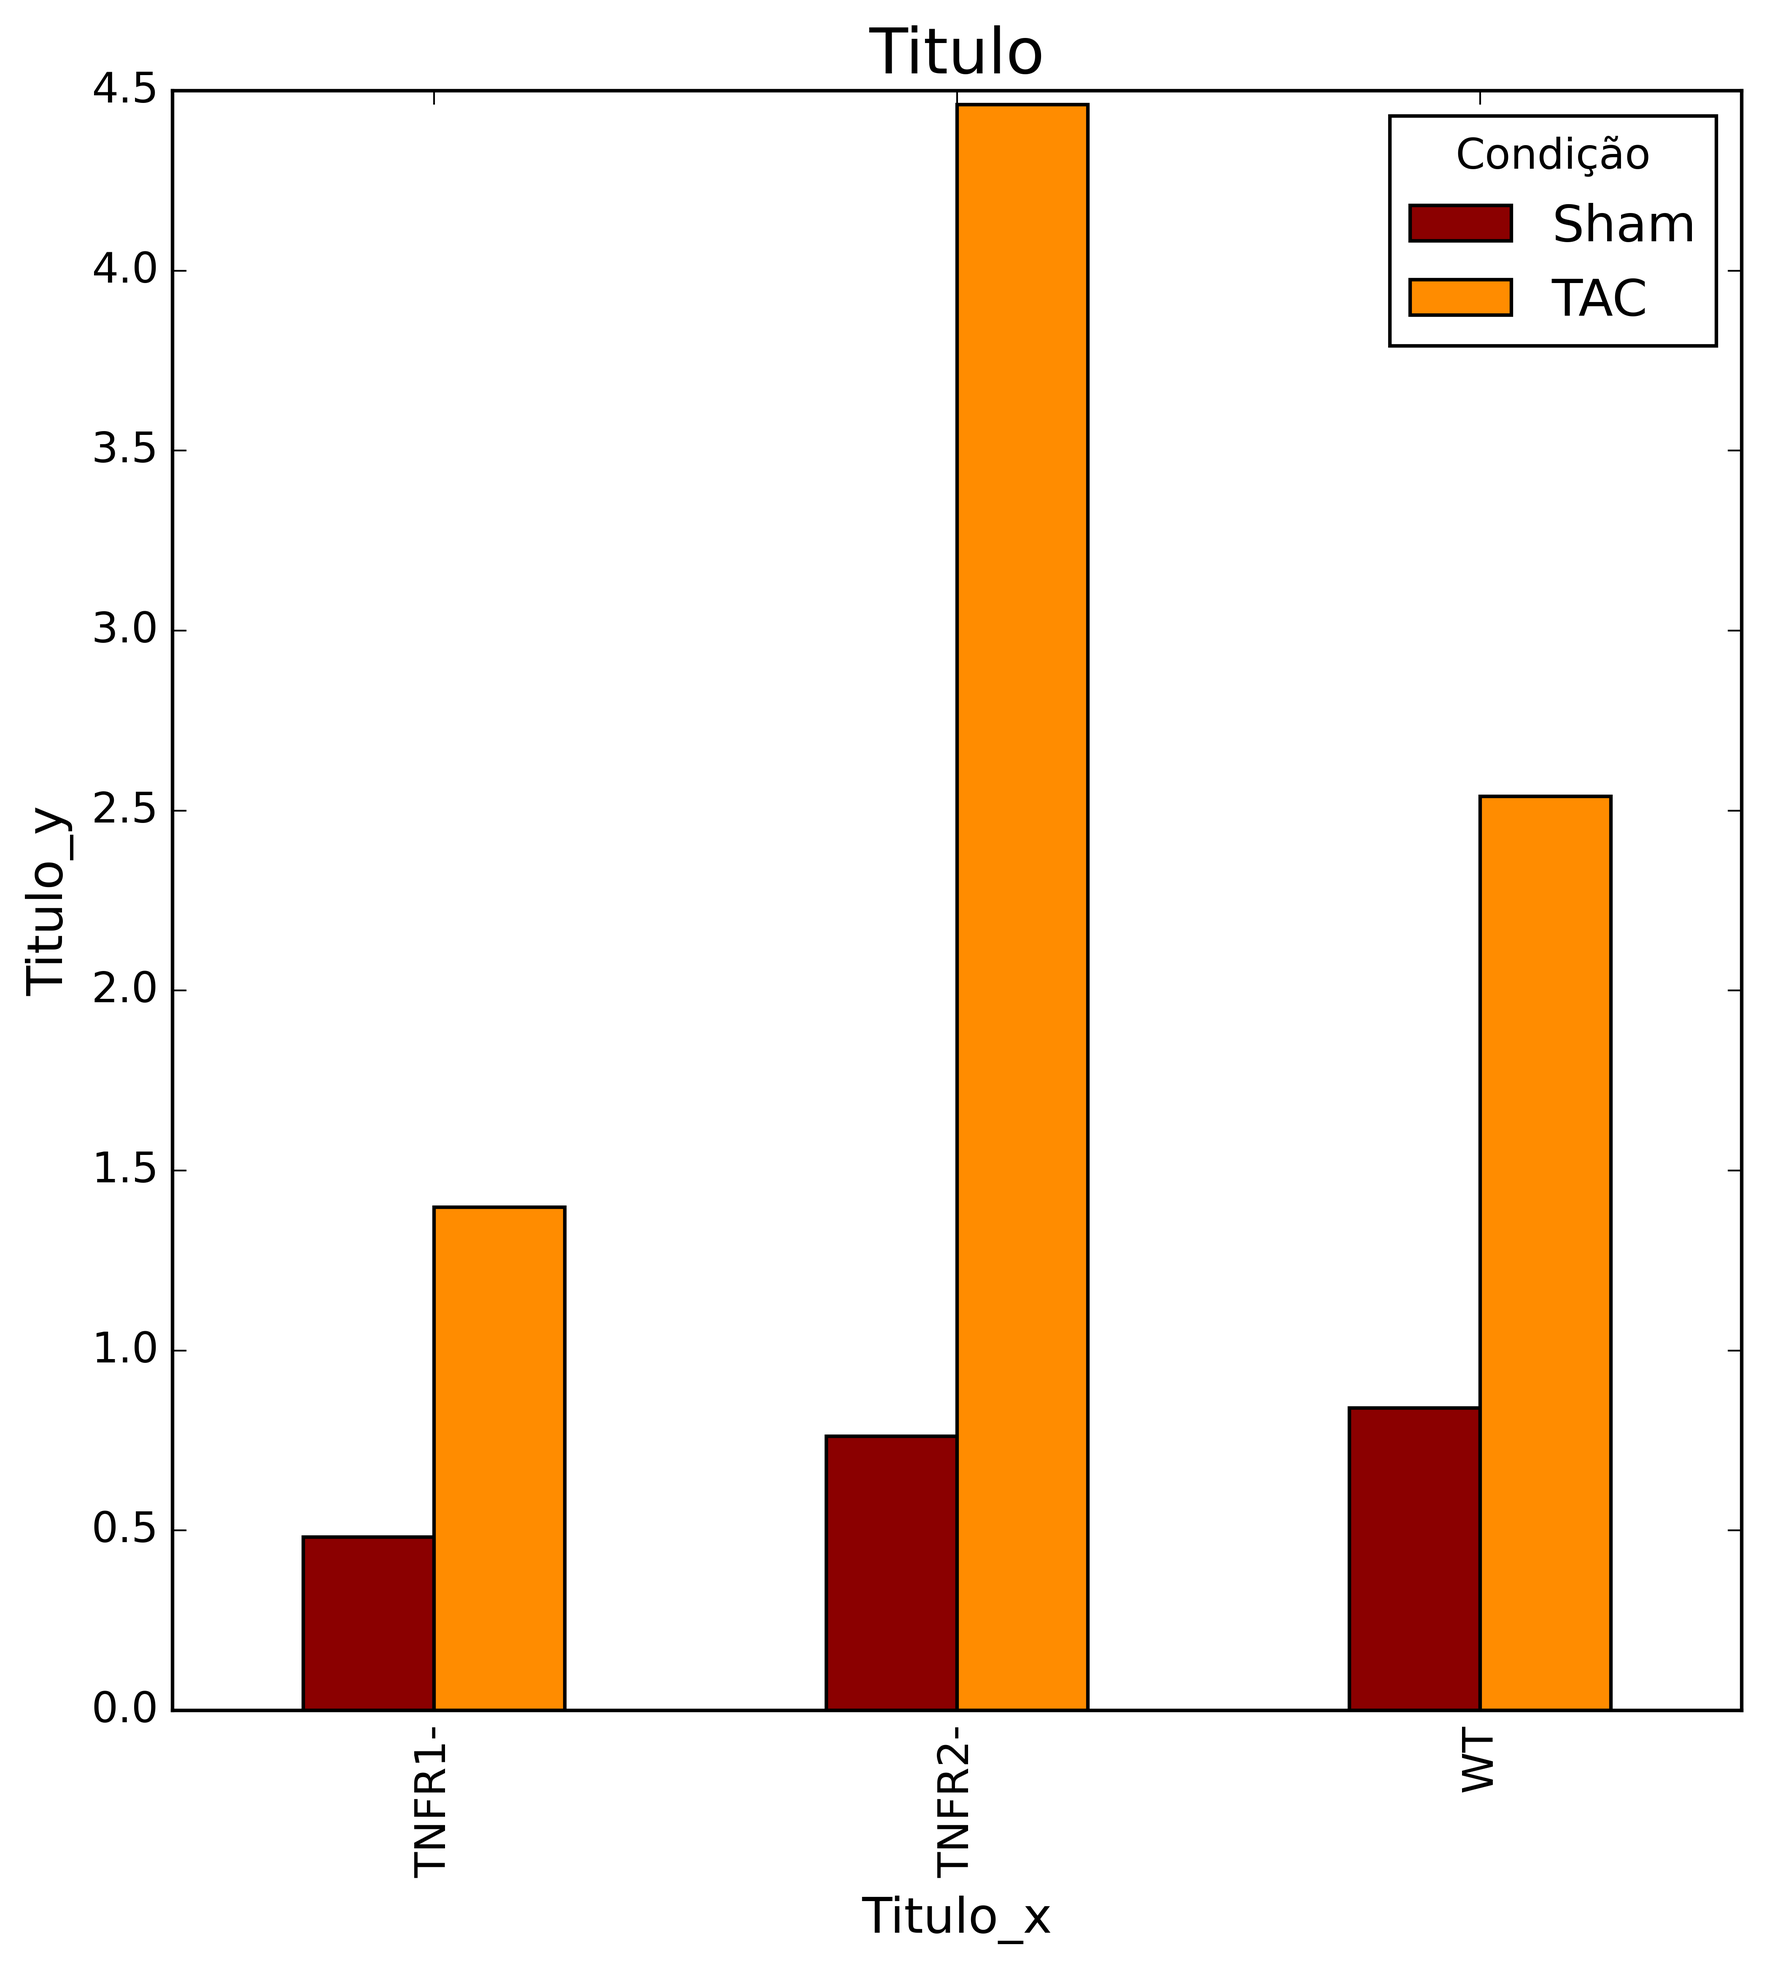
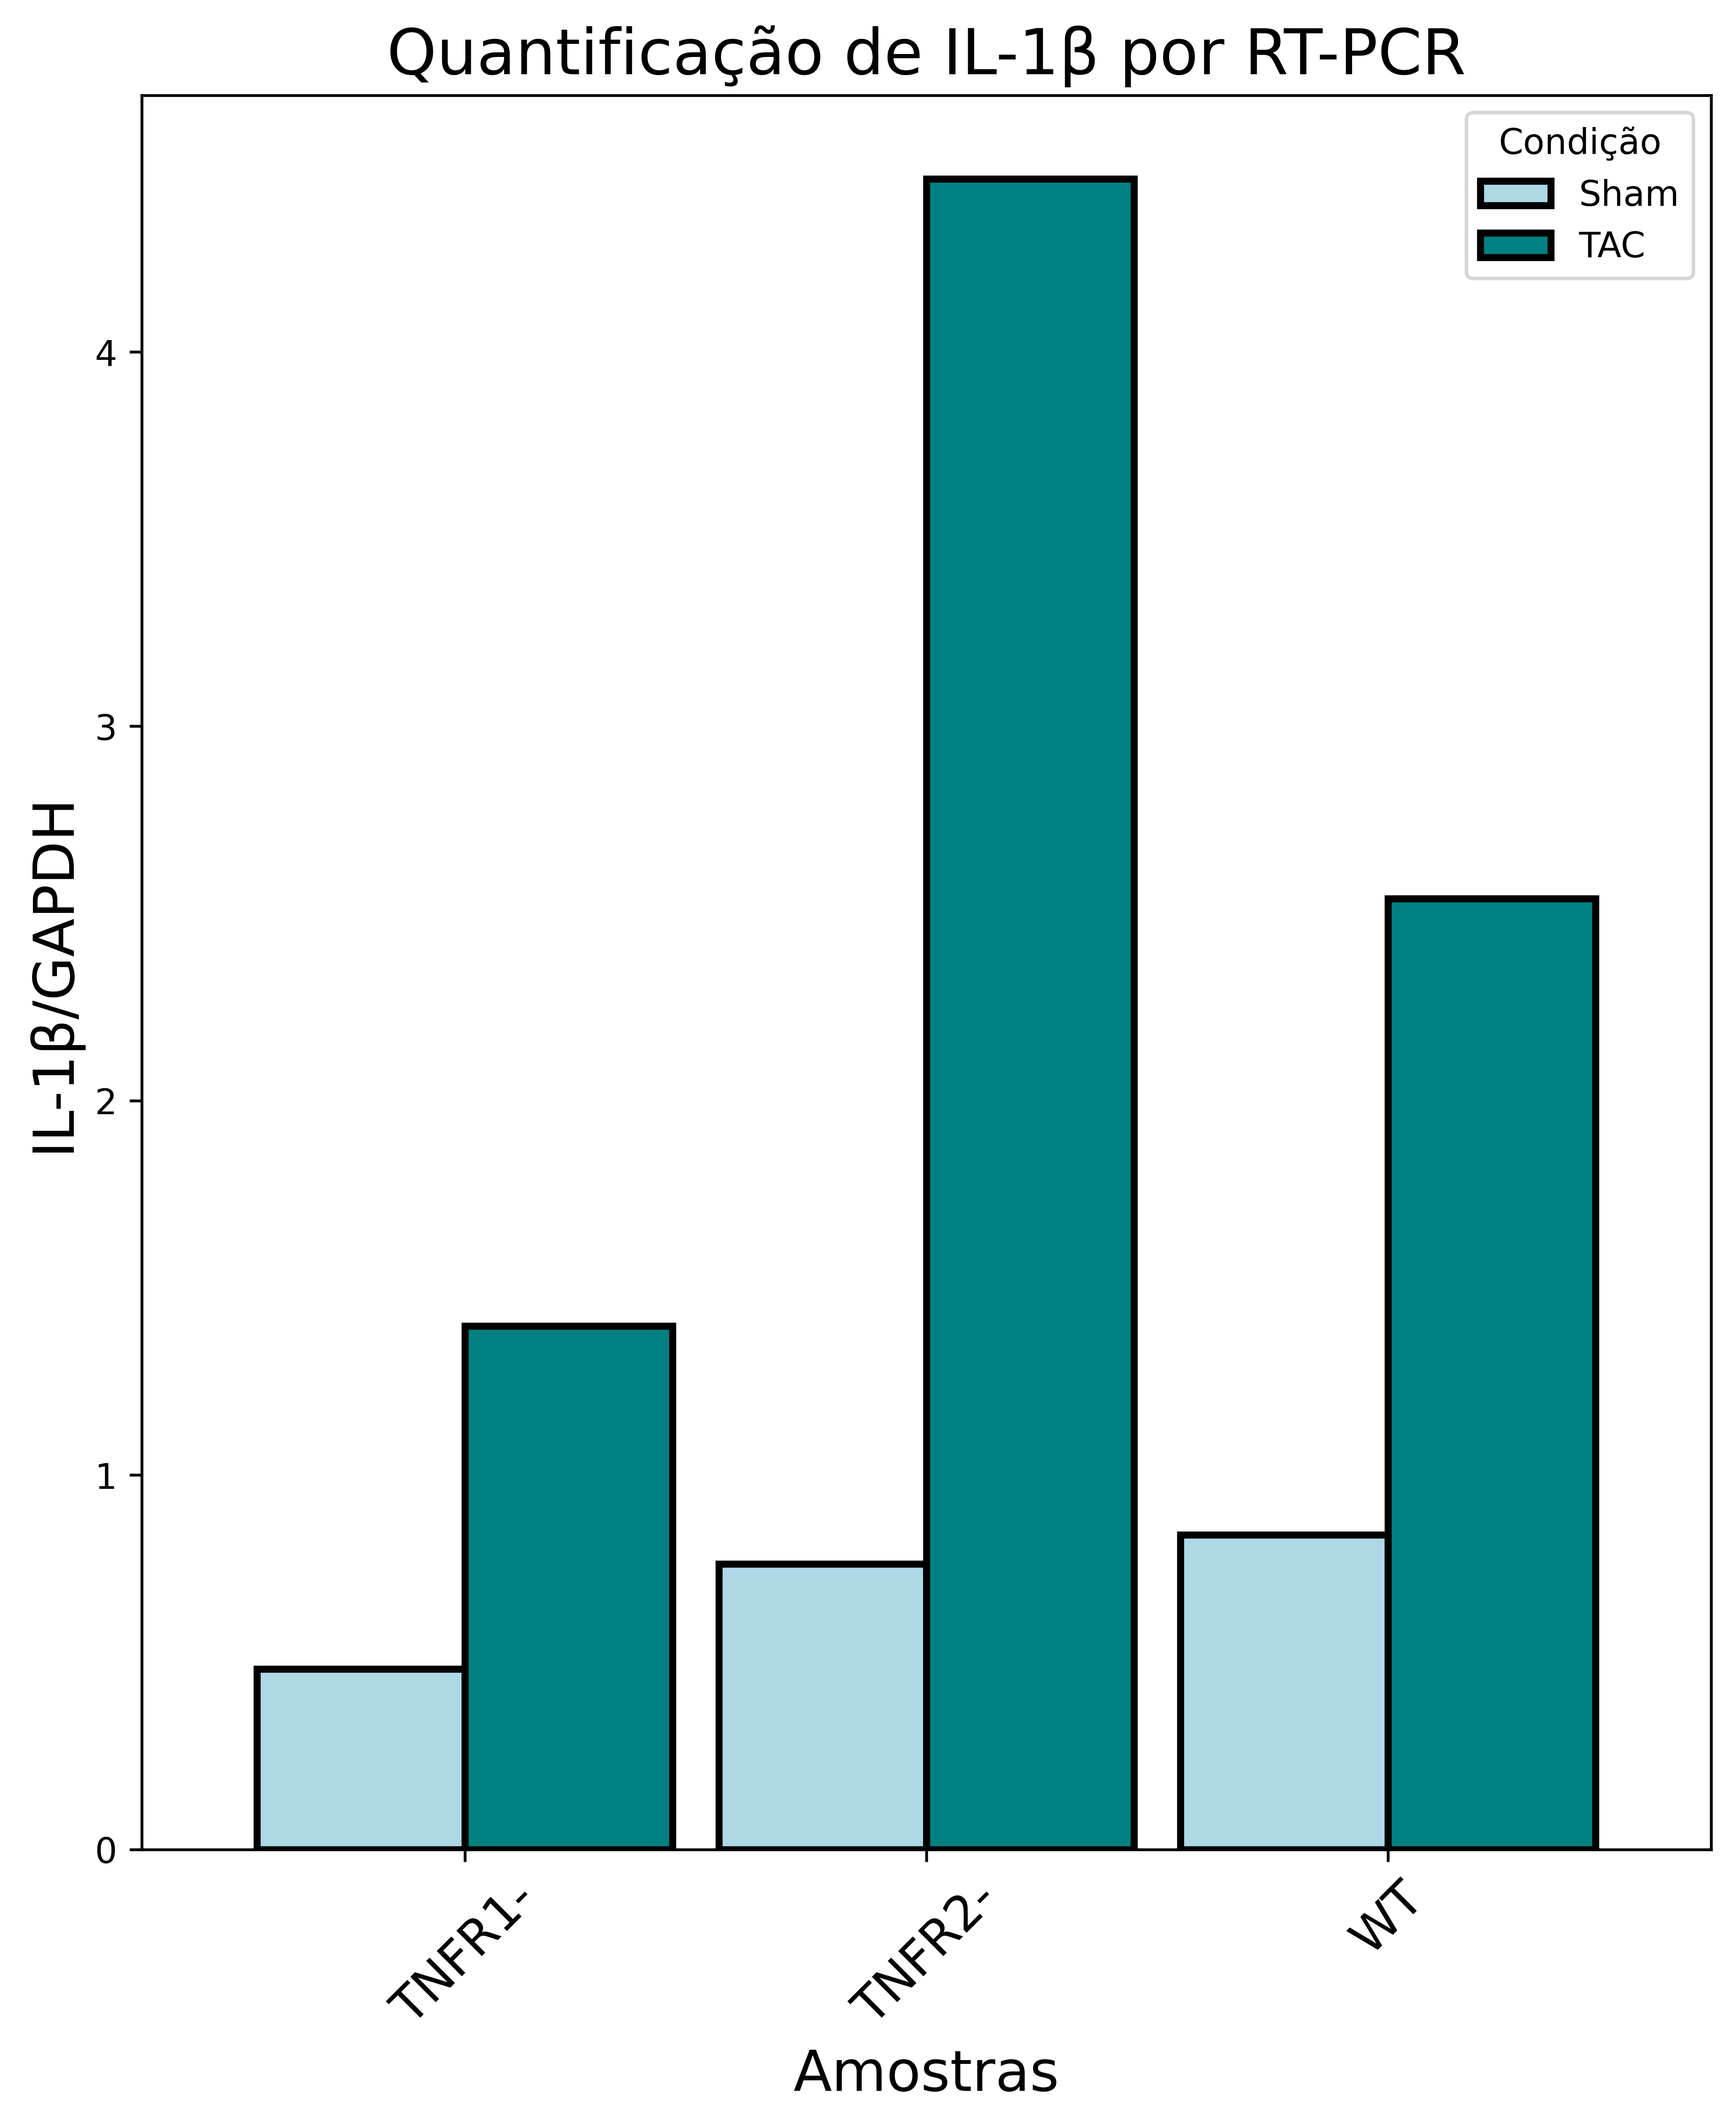
Melhora no gráfico de respostas.

diff --git a/Final/Problema1.py b/Final/Problema1.py
@@ -1,5 +1,4 @@
 ##Código criado para o Minicurso de git e github##
-##Autores:
 
 #bibliotecas/pacotes
 import numpy as np
@@ -19,10 +18,11 @@ print(tabela_medias)
 
 #Gráfico
 plt.style.use('fast')
-tabela_medias.plot(kind='bar',color=["lightblue", "red"], edgecolor="black", linewidth=2, figsize=(8, 8))
+tabela_medias.plot(kind='bar',color=["lightblue", "teal"], width=0.9 , edgecolor="black", linewidth=2, figsize=(8, 9))
 plt.title("Quantificação de IL-1β por RT-PCR", fontsize = 18)
-plt.ylabel("IL-1β/GAPDH", fontsize = 14)
-plt.xlabel("Amostras", fontsize = 14)
+plt.ylabel("IL-1β/GAPDH", fontsize = 16)
+plt.xlabel("Amostras", fontsize = 16)
+plt.xticks(fontsize = 14, rotation=45)
 plt.savefig("Gráfico_barras.png", dpi = 600, bbox_inches = "tight")
 plt.show()
 

diff --git a/Problemas/Problema2.py b/Problemas/Problema2.py
@@ -1,4 +1,4 @@
-# 1. Transcrito do gene tnfr1 de mus musculos (NM_011609.4)
+# 1. Transcrito do gene tnfr1 de Mus musculos (NM_011609.4)
 gene_tnfr1 = """CGCTCTTGCAACACCACCCCCGCCACTCTCCCTTCCCCTCCTACCTTCTCTCTCCCCTCAGCTTAAATTT
 TCTCCGAGTTTTCCGAACTCTGGCTCATGATCGGGCCTACTGGGTGCGAGGTCCTGGAGGACCGTACCCT
 GATCTCTATCTGCCTCTGACTTTCAGCTTCTCGAACTCGAGGCCCAGGCTGCCATCGCCCGGGCCACCTG
@@ -35,7 +35,7 @@ AAAAAAAAAAAAAAAA"""
 # 2. Região alvo shTNFR1
 alvo = "GGAAGGAGTTCATGCGTTT"
 
-# 3. Limpeza: removemos as quebras de linha do texto do gene
+# 3. Removemos as quebras de linha do texto do gene
 gene_limpo = gene_tnfr1.replace("\n", "")
 
 # 4. Buscamos a posição (adicionamos +1 pois o Python começa a contar do 0)

diff --git a/Final/Problema2.py b/Final/Problema2.py
@@ -38,11 +38,11 @@ alvo = "GGAAGGAGTTCATGCGTTT"
 # 3. Limpeza: removemos as quebras de linha do texto do gene
 gene_limpo = gene_tnfr1.replace("\n", "")
 
-# 4. Buscamos a posição (adicionamos +1 pois o Python começa a contar do 0, e a biologia do 1)
+# 4. Buscamos a posição (adicionamos +1 pois o Python começa a contar do 0)
 posicao = gene_limpo.find(alvo) + 1
 
 if posicao > 0:
-    print(f"✅ Sequência alvo encontrada!")
+    print(f"Sequência alvo encontrada!")
     print(f"Posição inicial: nucleotídeo {posicao}")
     print(f"Posição final: nucleotídeo {posicao + len(alvo) - 1}")
 else:

diff --git a/Problemas/Problema1.py b/Problemas/Problema1.py
@@ -1,5 +1,4 @@
 ##Código criado para o Minicurso de git e github##
-##Autores:
 
 #bibliotecas/pacotes
 import numpy as np
